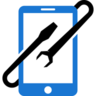
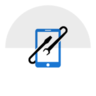
deploy: 467310a2c9b10dff654e4218a5f90be7a0ee4b06

diff --git a/flutter_service_worker.js b/flutter_service_worker.js
@@ -11,8 +11,8 @@ const RESOURCES = {
 "splash/img/dark-3x.png": "4c2fd0242ccb0b9fdd7d2bd4edaecd29",
 "splash/img/light-3x.png": "694189211dcd53d85157e414c36682c0",
 "splash/img/light-2x.png": "780eff04c8e2ebbfbac3e71d4ea2d81d",
-"favicon.ico": "3e0659e9410a8399c4df6f577090a795",
-"favicon.png": "e5074620112c0b2730420ae547f6a928",
+"favicon.ico": "aa4d480050b09d630e33529deba9d669",
+"favicon.png": "e7ace198e3bb8efd207385e08a88ce21",
 "assets/fonts/MaterialIcons-Regular.otf": "4e6447691c9509f7acdbf8a931a85ca1",
 "assets/NOTICES": "4ac729d8ab2dfd05e6d2e6930a997566",
 "assets/assets/images/logo_web_dark.jpg": "dc20063d21ddf06ba118495542a2b16d",
@@ -56,37 +56,37 @@ const RESOURCES = {
 "assets/packages/flutter_vector_icons/fonts/Entypo.ttf": "744ce60078c17d86006dd0edabcd59a7",
 "assets/packages/flutter_vector_icons/fonts/Fontisto.ttf": "b49ae8ab2dbccb02c4d11caaacf09eab",
 "assets/packages/cupertino_icons/assets/CupertinoIcons.ttf": "6d342eb68f170c97609e9da345464e5e",
-"icons/apple-icon-114x114.png": "22cbaae89716da7dccd2935d45434968",
-"icons/apple-icon-120x120.png": "0b0812494430dcdccfe804f25d290a05",
+"icons/apple-icon-114x114.png": "a0d22b2127ff10f49a79224ee85834ee",
+"icons/apple-icon-120x120.png": "2e1ca2714ca04bb61641785cb359d5d3",
 "icons/favicon.ico": "3e0659e9410a8399c4df6f577090a795",
-"icons/apple-icon-180x180.png": "dd1b96e7a1d81e57160b9e2af39ea7c2",
-"icons/favicon-96x96.png": "501377f5710bfeb1b65fcbaf12faec72",
-"icons/apple-icon-57x57.png": "10c5556c984a5399c73700ea06bd2635",
-"icons/android-icon-192x192.png": "0f68eb070520818f6f162b5ffdb1f3ad",
-"icons/ms-icon-144x144.png": "7c1c3e4039b94aaedc6b178e061632e7",
-"icons/apple-icon-152x152.png": "70fe4c963478258a189053696bea46d1",
-"icons/apple-icon-precomposed.png": "86103bff3f2f6ea61752f0e666f0c27a",
-"icons/android-icon-48x48.png": "cb54e009e9d32d7d20bc97a7af21d83c",
-"icons/android-icon-144x144.png": "7c1c3e4039b94aaedc6b178e061632e7",
-"icons/android-icon-96x96.png": "501377f5710bfeb1b65fcbaf12faec72",
-"icons/apple-icon.png": "86103bff3f2f6ea61752f0e666f0c27a",
-"icons/apple-icon-60x60.png": "0a77e32ffd2ea94c6b361cd295408cbd",
-"icons/favicon-16x16.png": "e5074620112c0b2730420ae547f6a928",
+"icons/apple-icon-180x180.png": "a69fd0bbf917177c8e3eb12bf004c2bd",
+"icons/favicon-96x96.png": "5ceb71133946a7b13d155b957e07e48d",
+"icons/apple-icon-57x57.png": "d1701b1e12e5423f0e58003f24efbf4b",
+"icons/android-icon-192x192.png": "3fee7d606cc00c3061b8164deb275446",
+"icons/ms-icon-144x144.png": "994dddc62e337c78990004578a8ba6ce",
+"icons/apple-icon-152x152.png": "858d4fb2d39570f1147819a1aedda932",
+"icons/apple-icon-precomposed.png": "83359159aeaeb5197027bfb2b0ce5d0f",
+"icons/android-icon-48x48.png": "37e083b7932b59bee2698f4cb6b5d97b",
+"icons/android-icon-144x144.png": "994dddc62e337c78990004578a8ba6ce",
+"icons/android-icon-96x96.png": "5ceb71133946a7b13d155b957e07e48d",
+"icons/apple-icon.png": "83359159aeaeb5197027bfb2b0ce5d0f",
+"icons/apple-icon-60x60.png": "575183be1ccf9490860e9f196fb7d3c4",
+"icons/favicon-16x16.png": "e7ace198e3bb8efd207385e08a88ce21",
 "icons/manifest.json": "4a627cbd5944024f83d69c9c6322613a",
-"icons/ms-icon-150x150.png": "a8642782e026bcdd025a795dd73e9c8c",
+"icons/ms-icon-150x150.png": "9f9a2becc38eed871b714904e34c1dbb",
 "icons/browserconfig.xml": "653d077300a12f09a69caeea7a8947f8",
-"icons/apple-icon-76x76.png": "084f0456621ee69e770f1fff3d8e812a",
-"icons/ms-icon-310x310.png": "6cb3efe39c3e0e44a4c16cfb469c760b",
-"icons/android-icon-72x72.png": "71aeb2b1e97a69a33a76f2b9b81cc0de",
-"icons/apple-icon-72x72.png": "71aeb2b1e97a69a33a76f2b9b81cc0de",
-"icons/favicon-32x32.png": "6c3619bb23ec9ccb0e9b69d30060d207",
-"icons/ms-icon-70x70.png": "064fbafc241bef1cbc5c4601372a1021",
-"icons/apple-icon-144x144.png": "7c1c3e4039b94aaedc6b178e061632e7",
-"icons/android-icon-36x36.png": "4b43d845cec249f69d17e3db1f910c46",
+"icons/apple-icon-76x76.png": "918cf1f423fa68d08d0c1e88ff161af1",
+"icons/ms-icon-310x310.png": "ebc3073eba591af0a7715866087a5dbd",
+"icons/android-icon-72x72.png": "b8a843917f117dce369194a6ad0d232f",
+"icons/apple-icon-72x72.png": "b8a843917f117dce369194a6ad0d232f",
+"icons/favicon-32x32.png": "98e4a2435fb0916f06f162713de0ed7e",
+"icons/ms-icon-70x70.png": "a8782b6f2efdfbc86a07b873dbed4edd",
+"icons/apple-icon-144x144.png": "994dddc62e337c78990004578a8ba6ce",
+"icons/android-icon-36x36.png": "06fbfd4a9330cb30bdeff39e3a00d640",
 "main.dart.js": "6ec5c3a61a04f4d993c2c5215a53bc18",
 "manifest.json": "03fe42ff67201fb7a1db1c384c3a2f15",
-"index.html": "4076c13740ede64ed87ee90d230ac967",
-"/": "4076c13740ede64ed87ee90d230ac967"
+"index.html": "aa97965a2eddb7c4172ecdbf45337aac",
+"/": "aa97965a2eddb7c4172ecdbf45337aac"
 };
 
 // The application shell files that are downloaded before a service worker can

diff --git a/index.html b/index.html
@@ -80,7 +80,7 @@
   <script>
     if ('serviceWorker' in navigator) {
       window.addEventListener('flutter-first-frame', function () {
-        navigator.serviceWorker.register('flutter_service_worker.js?v=815041771');
+        navigator.serviceWorker.register('flutter_service_worker.js?v=3269592613');
       });
     }
   </script>
